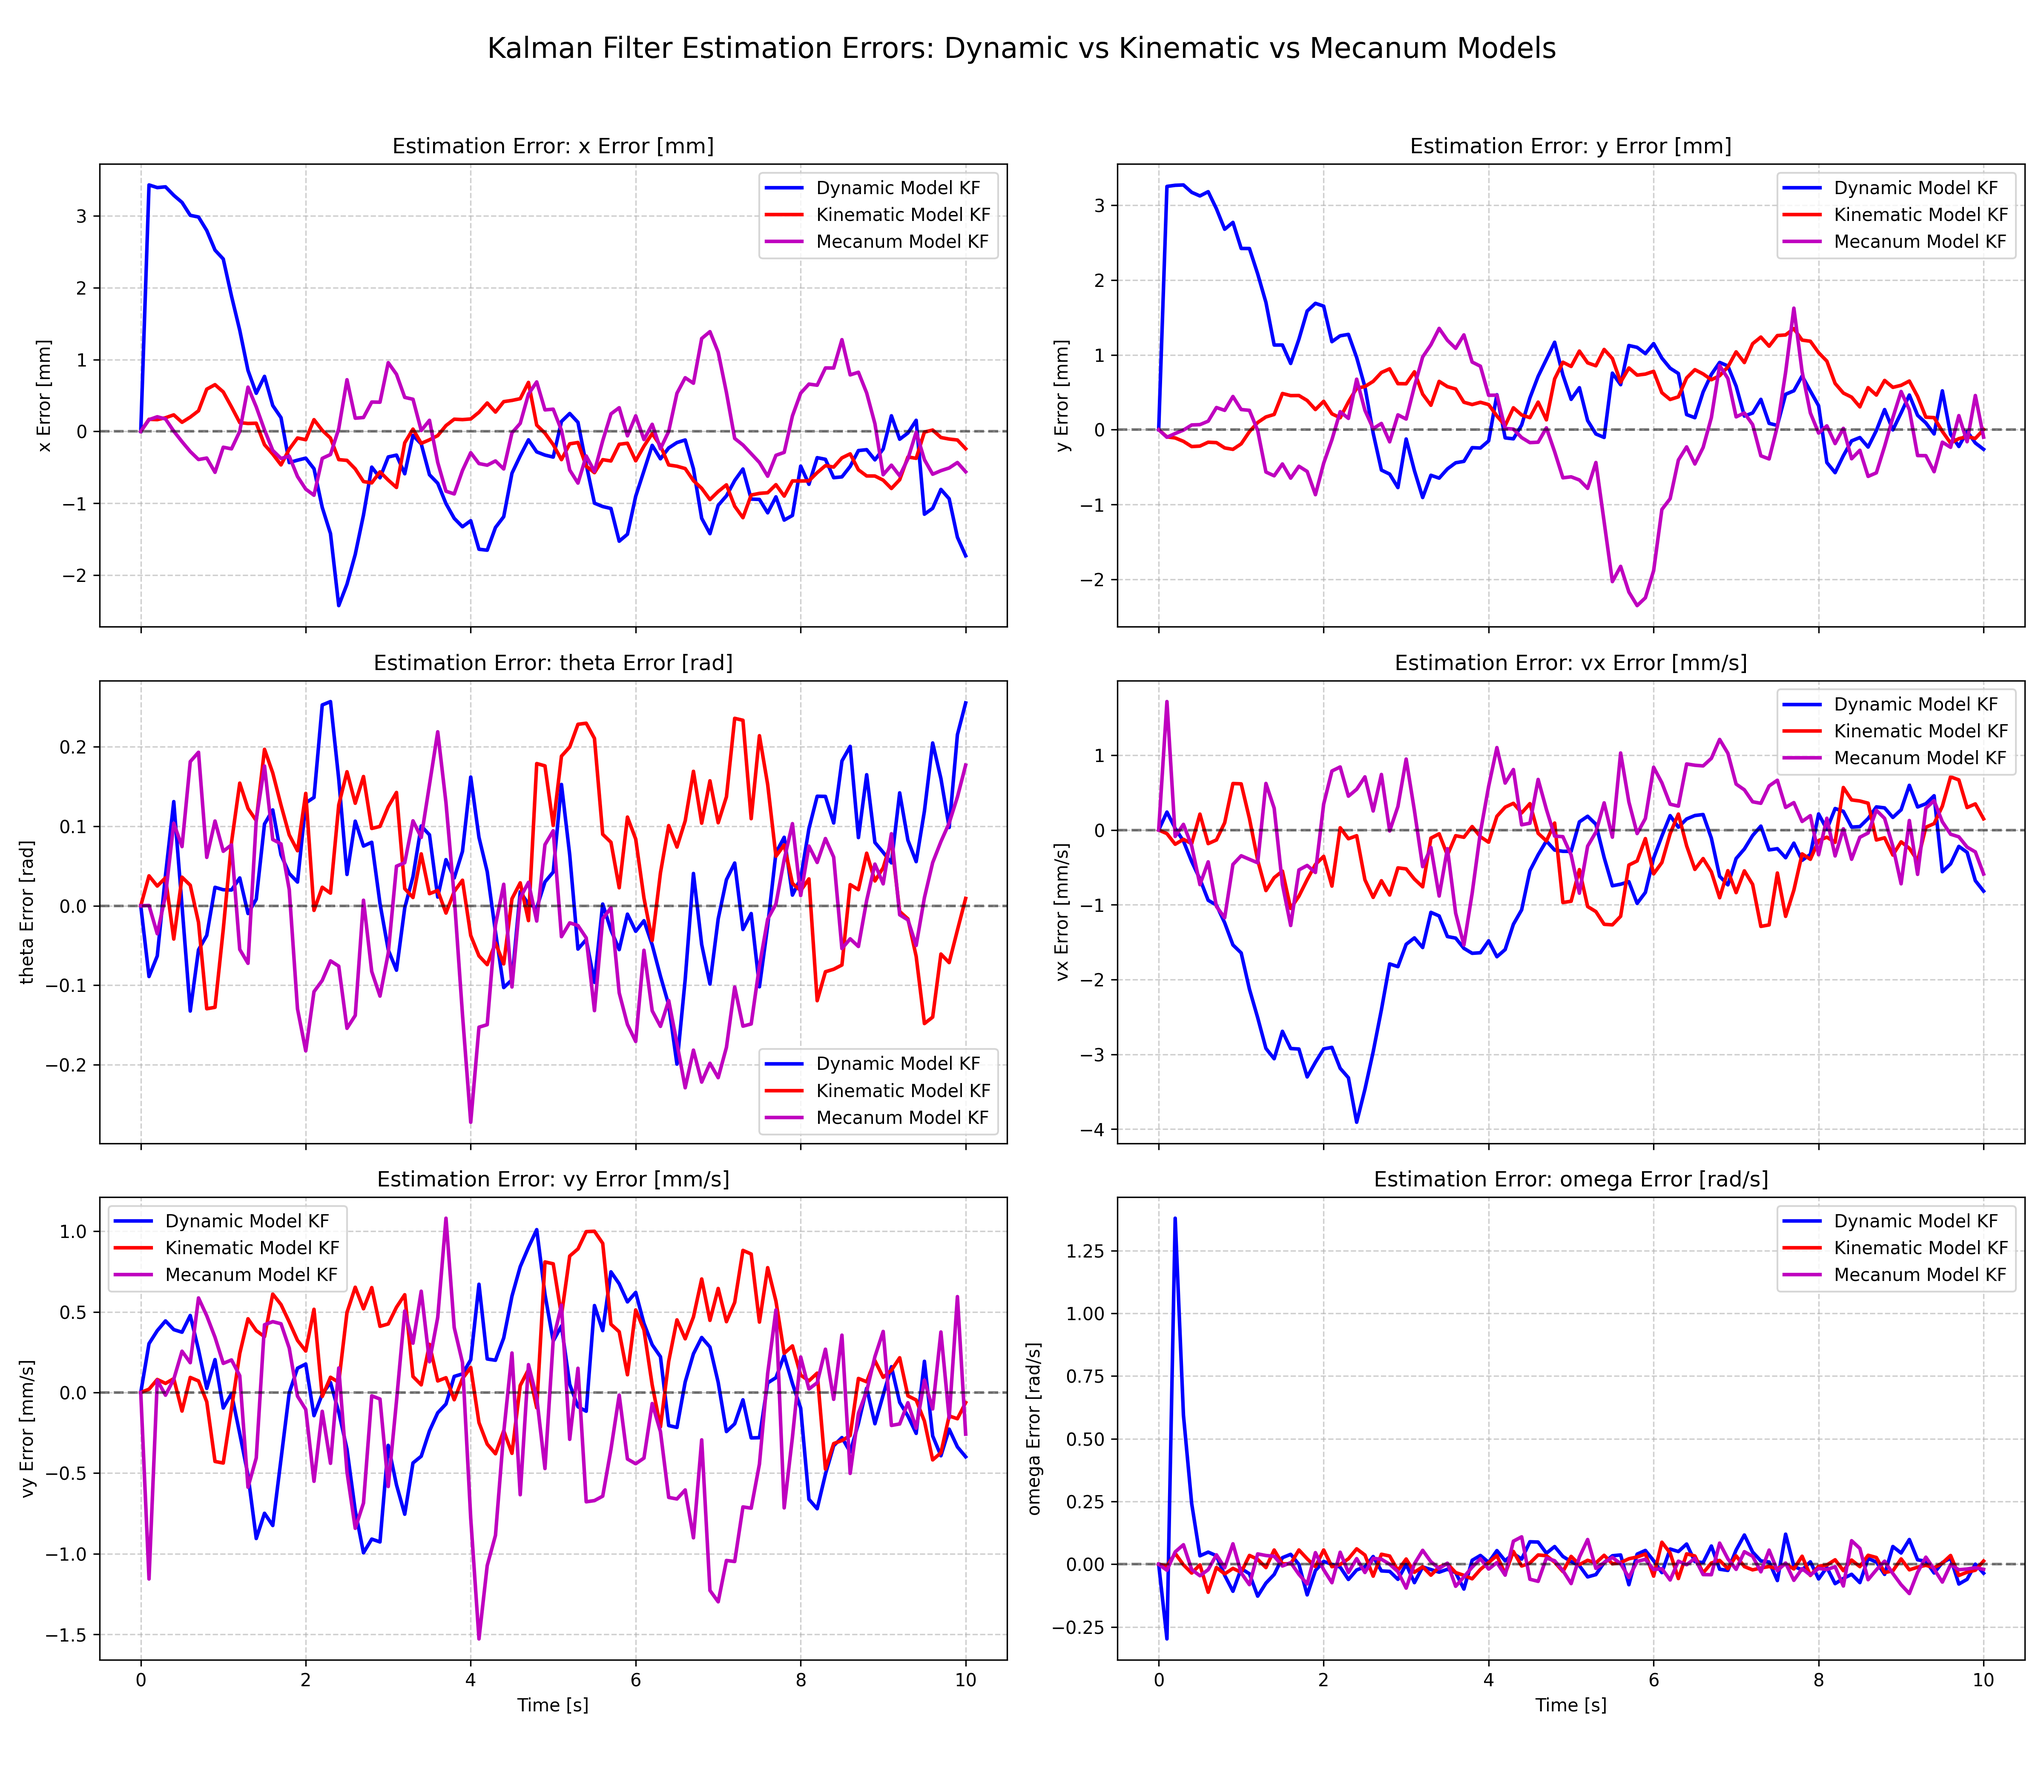
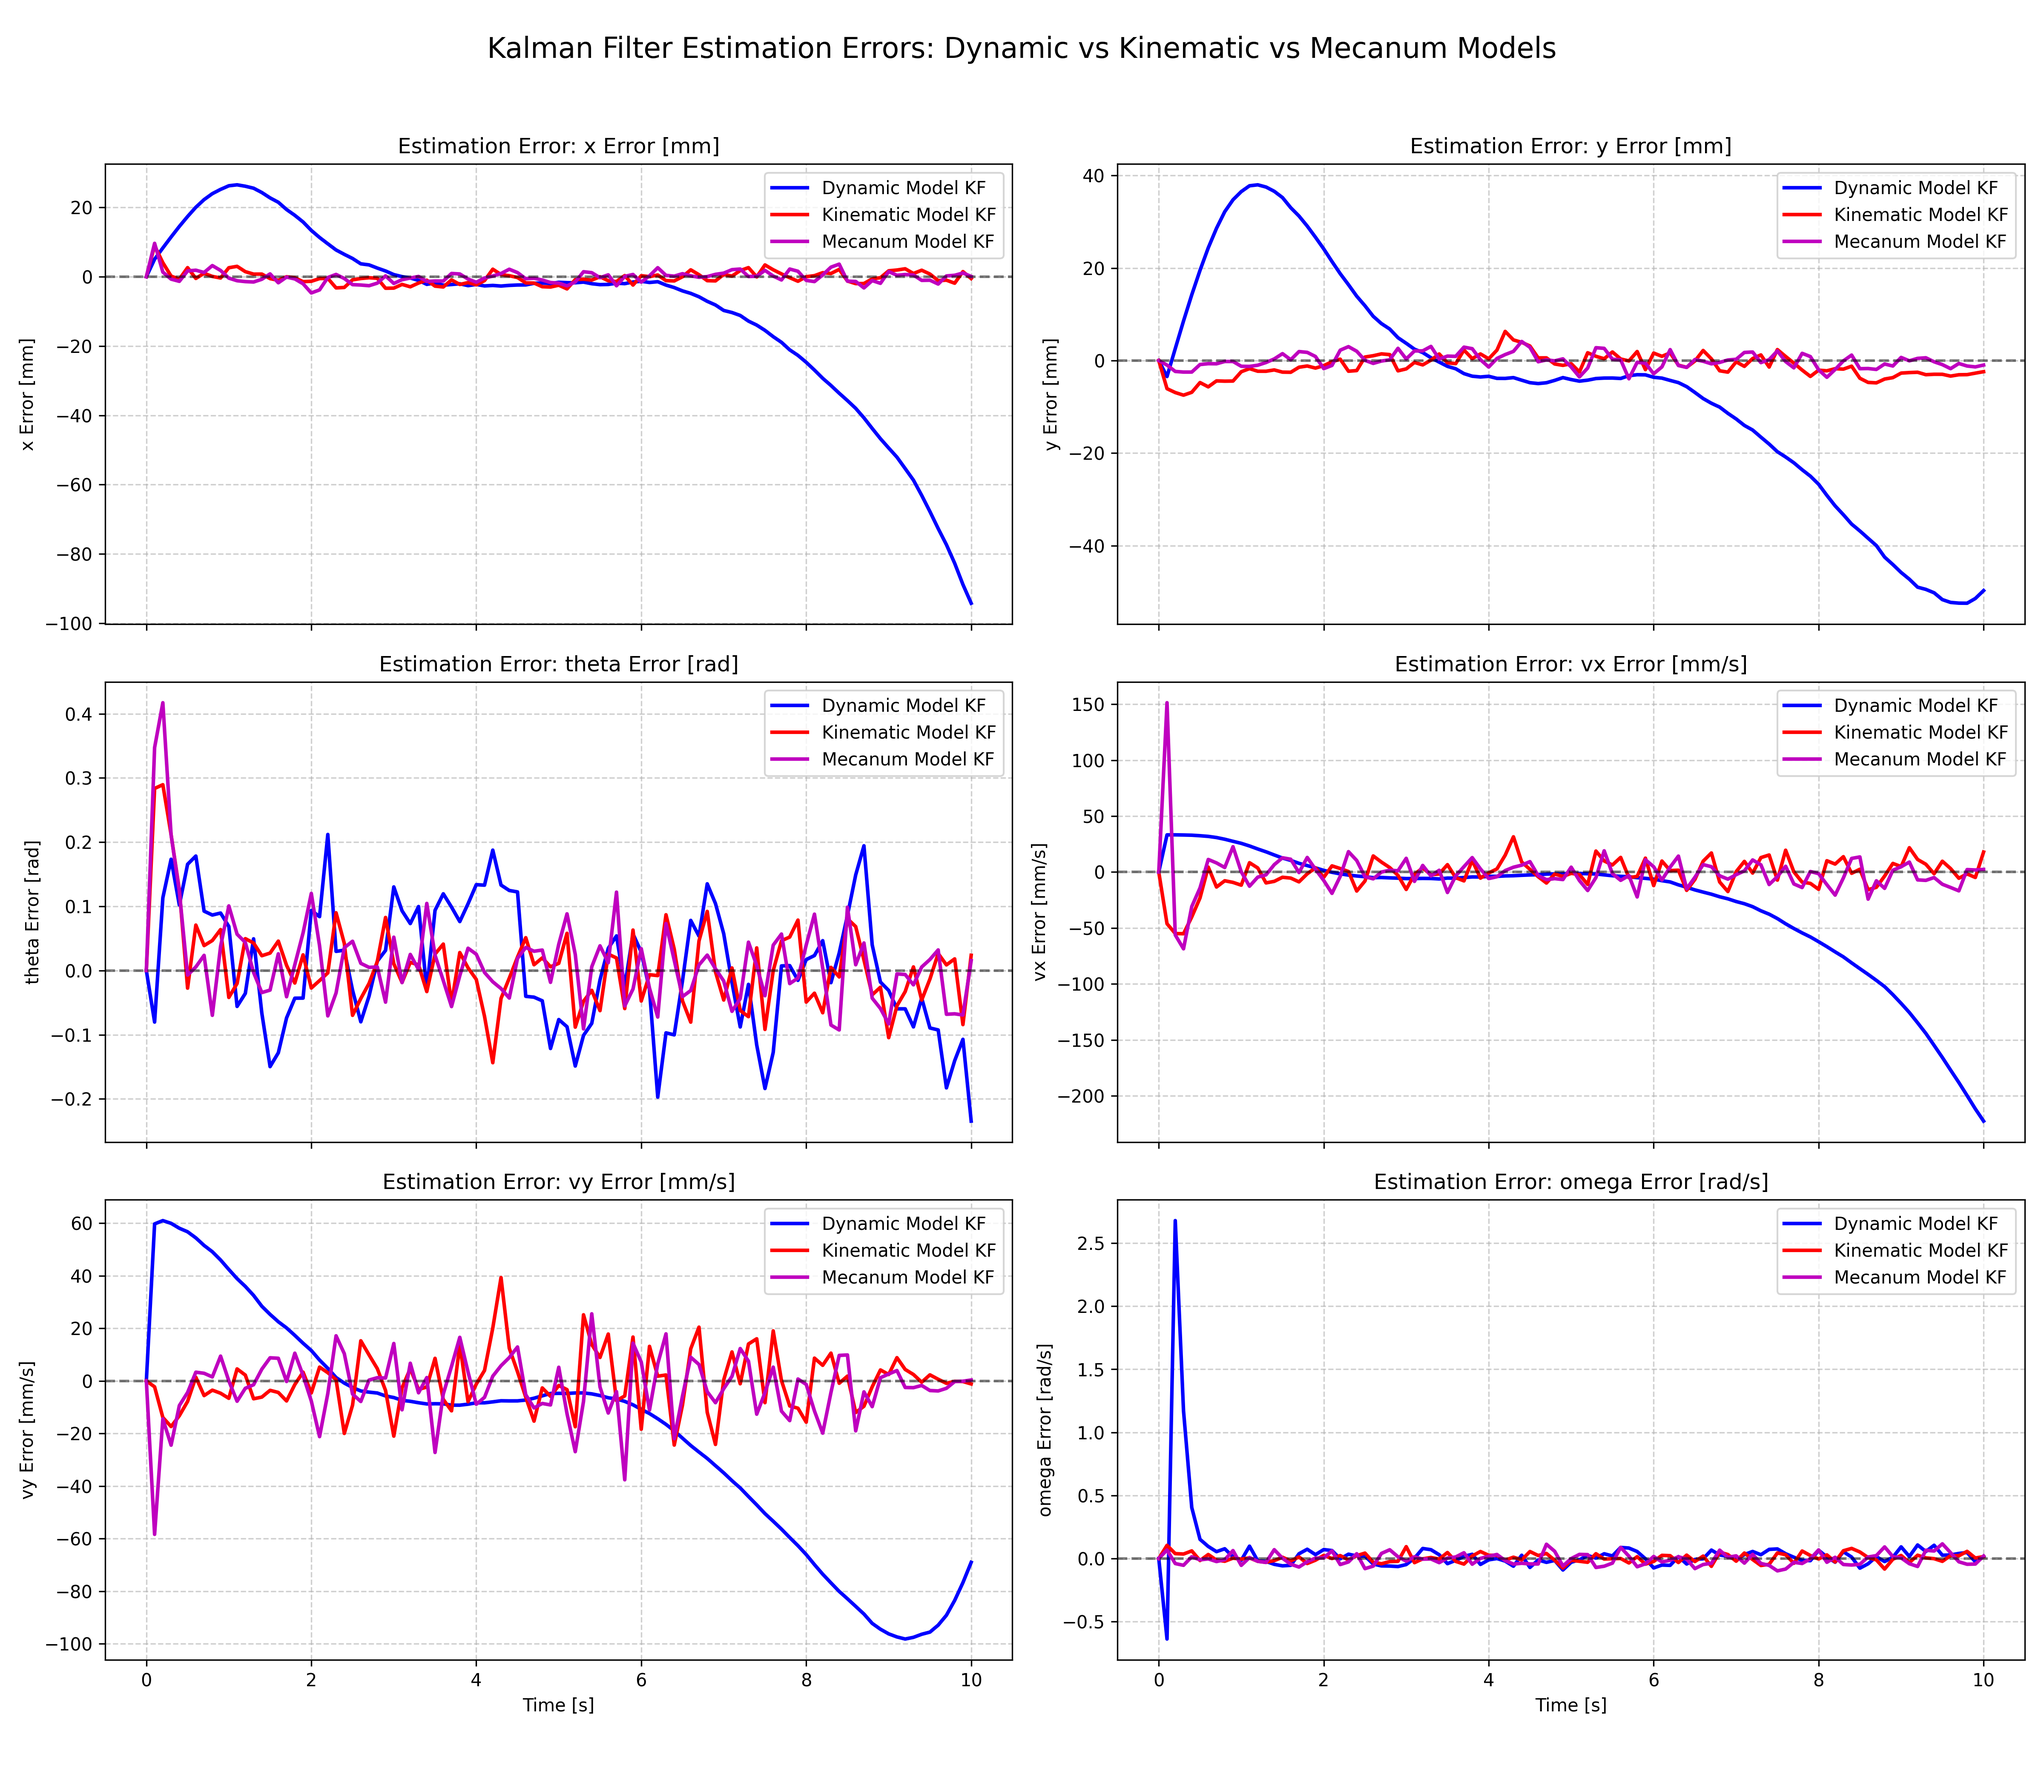
New plotting and drawing robot on trajectory

diff --git a/prototyping/kalman_filter.py b/prototyping/kalman_filter.py
@@ -1,5 +1,11 @@
 import numpy as np
 import matplotlib.pyplot as plt
+import os
+
+# Create plots directory if it doesn't exist
+PLOTS_DIR = "plots"
+if not os.path.exists(PLOTS_DIR):
+    os.makedirs(PLOTS_DIR)
 
 # Constants
 WHEEL_RADIUS = 50  # The wheel radius [mm]
@@ -334,6 +340,11 @@ if __name__ == "__main__":
     odom_readings_dynamic = []
     odom_readings_kinematic = []
     odom_readings_mecanum = []
+    robot_state_history: dict[str, list[RobotState]] = {
+        "dynamic": [],
+        "kinematic": [],
+        "mecanum": []
+    }
 
     # Simulation parameters
     total_time = 10.0  # Total simulation time [seconds]
@@ -345,24 +356,25 @@ if __name__ == "__main__":
         timestamp = i * dt
 
         # 1. Define True Motion (a cubic trajectory)
-        # Create a cubic path from (0,0) to (0,50) with interesting curvature
+        # Create a cubic path from (0,0) to (1000,1000) with interesting curvature
         # Using parametric equations based on time progression
 
         # Get previous true state
         last_true_state = true_states[-1]
 
         # Define trajectory parameters
-        total_distance = 50.0  # Total distance to travel [mm]
+        total_distance = 2000.0  # Total distance to travel [mm]
         progress = timestamp / total_time  # Progress from 0 to 1
 
-        # Cubic trajectory: x follows a cubic curve, y increases linearly
-        # x = A * t^3 + B * t^2 + C * t + D
-        # Boundary conditions: x(0)=0, x(1)=0, dx/dt(0)=20, dx/dt(1)=-20
-        # This creates an S-curve that starts at (0,0) and ends at (0,50)
+        # Dynamically calculate coefficients for cubic trajectory
+        v_0 = 20.0  # Initial velocity [mm/s]
+        v_1 = 0.0  # Final velocity [mm/s]
 
-        A = -40.0  # Coefficient for t^3
-        B = 60.0   # Coefficient for t^2
-        C = 20.0   # Coefficient for t
+        # Solve for coefficients using boundary conditions
+        # x(0) = 0, x(1) = total_distance, dx/dt(0) = v_0, dx/dt(1) = v_1
+        A = 2 * total_distance - v_0 - v_1
+        B = -3 * total_distance + 2 * v_0 + v_1
+        C = v_0
         D = 0.0    # Constant term
 
         # Calculate position
@@ -514,14 +526,13 @@ if __name__ == "__main__":
         estimated_states_mecanum.append(
             kf_mecanum_model.state.to_array().copy())
 
+        # Save history for drawing the robot later
+        if i % 20 == 0:
+            robot_state_history["dynamic"].append(kf_dynamic_model.state)
+            robot_state_history["kinematic"].append(kf_kinematic_model.state)
+            robot_state_history["mecanum"].append(kf_mecanum_model.state)
+
     # --- Plotting ---
-    import os
-
-    # Create plots directory if it doesn't exist
-    plots_dir = "plots"
-    if not os.path.exists(plots_dir):
-        os.makedirs(plots_dir)
-
     estimated_states_dynamic = np.array(estimated_states_dynamic)
     estimated_states_kinematic = np.array(estimated_states_kinematic)
     estimated_states_mecanum = np.array(estimated_states_mecanum)
@@ -546,6 +557,16 @@ if __name__ == "__main__":
                 c='purple', marker='+', s=60, alpha=0.8, label='Noisy Odometry (Kinematic)')
     plt.scatter(odom_readings_mecanum[:, 0], odom_readings_mecanum[:, 1],
                 c='cyan', marker='o', s=30, alpha=0.8, label='Noisy Odometry (Mecanum)')
+    # At each RobotState in the histories, draw the robot on the same plot
+    ax = plt.gca()
+    from draw_rocker_bogie import draw_robot_at_state
+    # for state in robot_state_history["dynamic"]:
+    #     draw_robot_at_state(ax, state, color='blue')
+    for state in robot_state_history["kinematic"]:
+        draw_robot_at_state(ax, False, x=state.x, y=state.y, theta=state.theta,
+                            vx=state.vx, vy=state.vy, omega=state.omega)
+    # for state in robot_state_history["mecanum"]:
+    #     draw_robot_at_state(ax, state, color='magenta')
     plt.xlabel('x [mm]')
     plt.ylabel('y [mm]')
     plt.title('Robot Trajectory Estimation: Dynamic vs Kinematic vs Mecanum Models')
@@ -554,7 +575,8 @@ if __name__ == "__main__":
     plt.axis('equal')
     plt.tight_layout()
     plt.savefig(os.path.join(
-        plots_dir, 'robot_trajectory_comparison.png'), dpi=300)
+        PLOTS_DIR, 'robot_trajectory_comparison.png'), dpi=300
+    )
     plt.show()
 
     # Plot individual states comparison
@@ -580,7 +602,7 @@ if __name__ == "__main__":
         'Kalman Filter State Evolution: Dynamic vs Kinematic vs Mecanum Models', fontsize=16)
     plt.tight_layout(rect=[0, 0.03, 1, 0.96])
     plt.savefig(os.path.join(
-        plots_dir, 'kalman_filter_states_comparison.png'), dpi=300)
+        PLOTS_DIR, 'kalman_filter_states_comparison.png'), dpi=300)
     plt.show()
 
     # Plot error comparison
@@ -619,7 +641,7 @@ if __name__ == "__main__":
         'Kalman Filter Estimation Errors: Dynamic vs Kinematic vs Mecanum Models', fontsize=16)
     plt.tight_layout(rect=[0, 0.03, 1, 0.96])
     plt.savefig(os.path.join(
-        plots_dir, 'kalman_filter_errors_comparison.png'), dpi=300)
+        PLOTS_DIR, 'kalman_filter_errors_comparison.png'), dpi=300)
     plt.show()
 
     # Print performance metrics
@@ -661,11 +683,11 @@ if __name__ == "__main__":
         print(line)
 
     # Save to file
-    with open(os.path.join(plots_dir, "KF_results.txt"), "w") as f:
+    with open(os.path.join(PLOTS_DIR, "KF_results.txt"), "w") as f:
         for line in summary_lines:
             f.write(line + "\n")
 
-    print(f"\nFigures saved successfully to '{plots_dir}/' directory:")
+    print(f"\nFigures saved successfully to '{PLOTS_DIR}/' directory:")
     print("- robot_trajectory_comparison.png")
     print("- kalman_filter_states_comparison.png")
     print("- kalman_filter_errors_comparison.png")

diff --git a/prototyping/draw_rocker_bogie.py b/prototyping/draw_rocker_bogie.py
@@ -1,6 +1,8 @@
 import sys
 from math import sqrt
 import matplotlib.pyplot as plt
+import numpy as np
+import matplotlib.transforms as mtransforms
 
 # ------ RBM Inputs ------
 WHEEL_RADIUS = 50  # The wheel radius [mm]
@@ -84,6 +86,18 @@ print(
     f'- Height of RBM (B to N) = sqrt(BC^2 - NC^2)\n'
     f'- Center to Ground = WheelRadius + BN'
 )
+
+
+def wheel_positions(x=0, y=0, theta=0):
+    # Given the position of the robot's center (x, y) and orientation theta,
+    # return a dictionary of the wheel positions in the robot's frame indexed by name
+    positions = {}
+    for name, (dx, dy) in WHEEL_LOCATIONS.items():
+        # Apply rotation to wheel positions
+        rotated_x = (dx * np.cos(theta) - dy * np.sin(theta)) + x
+        rotated_y = (dx * np.sin(theta) + dy * np.cos(theta)) + y
+        positions[name] = (rotated_x, rotated_y)
+    return positions
 
 
 def draw_robot_diagram():
@@ -318,6 +332,112 @@ def draw_robot_diagram():
     plt.show()
 
 
-# Run the visualization
+def draw_robot_at_state(ax, show_text: bool, x, y, theta, vx, vy, omega):
+    # Draw the robot chassis as a grey rectangle
+    CHASSIS_LENGTH = TRACK_WIDTH * 1.5  # Length of the chassis
+    CHASSIS_WIDTH = WHEEL_BASE * 0.7  # Width of the chassis
+    chassis = plt.Rectangle(
+        (x - CHASSIS_LENGTH / 2, y - CHASSIS_WIDTH / 2),
+        CHASSIS_LENGTH, CHASSIS_WIDTH,
+        angle=0, color='lightgrey', alpha=0.8, ec='black', linewidth=2
+    )
+    t = ax.transData
+    rotate_transform = mtransforms.Affine2D().rotate_around(x, y, theta) + t
+    chassis.set_transform(rotate_transform)
+    ax.add_patch(chassis)
+
+    # Draw the wheels as rectangles
+    WHEEL_LENGTH = WHEEL_RADIUS * 2  # Length of the wheel
+    WHEEL_WIDTH = WHEEL_RADIUS * 0.5  # Width of the wheel
+    positions = wheel_positions(x, y, theta)
+    for name, (wx, wy) in positions.items():
+        wheel = plt.Rectangle(
+            (wx - WHEEL_LENGTH / 2, wy - WHEEL_WIDTH / 2),
+            WHEEL_LENGTH, WHEEL_WIDTH,
+            angle=0, color='darkgrey', ec='black', linewidth=1.5
+        )
+        wheel_t = ax.transData
+        wheel_rotate_transform = mtransforms.Affine2D().rotate_around(
+            wx, wy, theta) + wheel_t
+        wheel.set_transform(wheel_rotate_transform)
+        ax.add_patch(wheel)
+
+    # Draw the heading of the robot as a larger triangle at the front
+    front_x = x + (CHASSIS_LENGTH / 2) * np.cos(theta)
+    front_y = y + (CHASSIS_LENGTH / 2) * np.sin(theta)
+    HEADING_TRIANGLE_SIZE = 40  # Size of the heading triangle
+    heading_triangle = plt.Polygon(
+        [
+            (front_x, front_y),
+            (front_x - HEADING_TRIANGLE_SIZE * np.cos(theta + np.pi / 6),
+             front_y - HEADING_TRIANGLE_SIZE * np.sin(theta + np.pi / 6)),
+            (front_x - HEADING_TRIANGLE_SIZE * np.cos(theta - np.pi / 6),
+             front_y - HEADING_TRIANGLE_SIZE * np.sin(theta - np.pi / 6))
+        ],
+        closed=True, color='red', alpha=0.8, ec='black', linewidth=1.5
+    )
+    ax.add_patch(heading_triangle)
+
+    # Draw a black circle at the center of the chassis
+    ax.plot(x, y, 'ko', markersize=12)
+
+    # --- Velocity Vector Visualization ---
+    # The velocity (vx, vy) is in the robot's body frame.
+    # We need to rotate it by theta to align it with the world frame.
+    world_vx = vx * np.cos(theta) - vy * np.sin(theta)
+    world_vy = vx * np.sin(theta) + vy * np.cos(theta)
+
+    # Calculate magnitude and scale the arrow length
+    magnitude = np.sqrt(world_vx**2 + world_vy**2)
+    if magnitude > 1e-6:  # Avoid division by zero
+        ARROW_LENGTH = (CHASSIS_LENGTH / 2) - (HEADING_TRIANGLE_SIZE * 1.2)
+
+        # Calculate the final arrow components for plotting
+        arrow_dx = (world_vx / magnitude) * ARROW_LENGTH
+        arrow_dy = (world_vy / magnitude) * ARROW_LENGTH
+
+        # Draw the velocity vector as an arrow
+        ax.arrow(
+            x, y,
+            arrow_dx, arrow_dy,
+            head_width=25, head_length=35, fc='blue', ec='blue', linewidth=2,
+            length_includes_head=True
+        )
+
+    # Add a small label for the robot state above the chassis center
+    if show_text:
+        ax.text(
+            x, y + (CHASSIS_LENGTH / 4),
+            f'X=[x={x:.0f} mm, y={y:.0f} mm, θ={np.degrees(theta):.1f}°]\n'
+            f'V=[vx={vx:.1f} mm/s, vy={vy:.1f} mm/s, ω={omega:.1f} rad/s]',
+            fontsize=8, ha='center', va='bottom', color='black', weight='bold',
+            bbox=dict(facecolor='white', edgecolor='red', linewidth=1,
+                      boxstyle='round,pad=0.3', alpha=0.8)
+        )
+
+
 if __name__ == "__main__":
-    draw_robot_diagram()
+    # draw_robot_diagram()
+
+    # Create a new figure for trajectory visualization
+    fig, ax = plt.subplots(figsize=(10, 10))
+    MAX_SIZE = 1000
+    ax.set_xlim(-MAX_SIZE, MAX_SIZE)
+    ax.set_ylim(-MAX_SIZE, MAX_SIZE)
+    test_robot_positions = [
+        (0, 0, 0, 10, 0, 0),  # Centered at origin, no rotation
+        # Diagonal position with 45-degree rotation
+        (500, 500, np.pi/4, 10, 0, 0),
+        (-300, -450, np.pi/2, 10, 0, 0),  # Left side with 90-degree rotation
+        (300, -500, -np.pi/3, 10, 0, 0)   # Right side with -60-degree rotation
+    ]
+    for pos in test_robot_positions:
+        draw_robot_at_state(ax, True, *pos)
+        plt.title('Top-Down View of Rocker-Bogie Robot Trajectory')
+        plt.xlabel('X Position [mm]')
+        plt.ylabel('Y Position [mm]')
+        plt.grid(True)
+        plt.gca().set_aspect('equal', adjustable='box')
+    plt.savefig(f"top_down_rover.png",
+                dpi=300, bbox_inches='tight')
+    plt.show()
